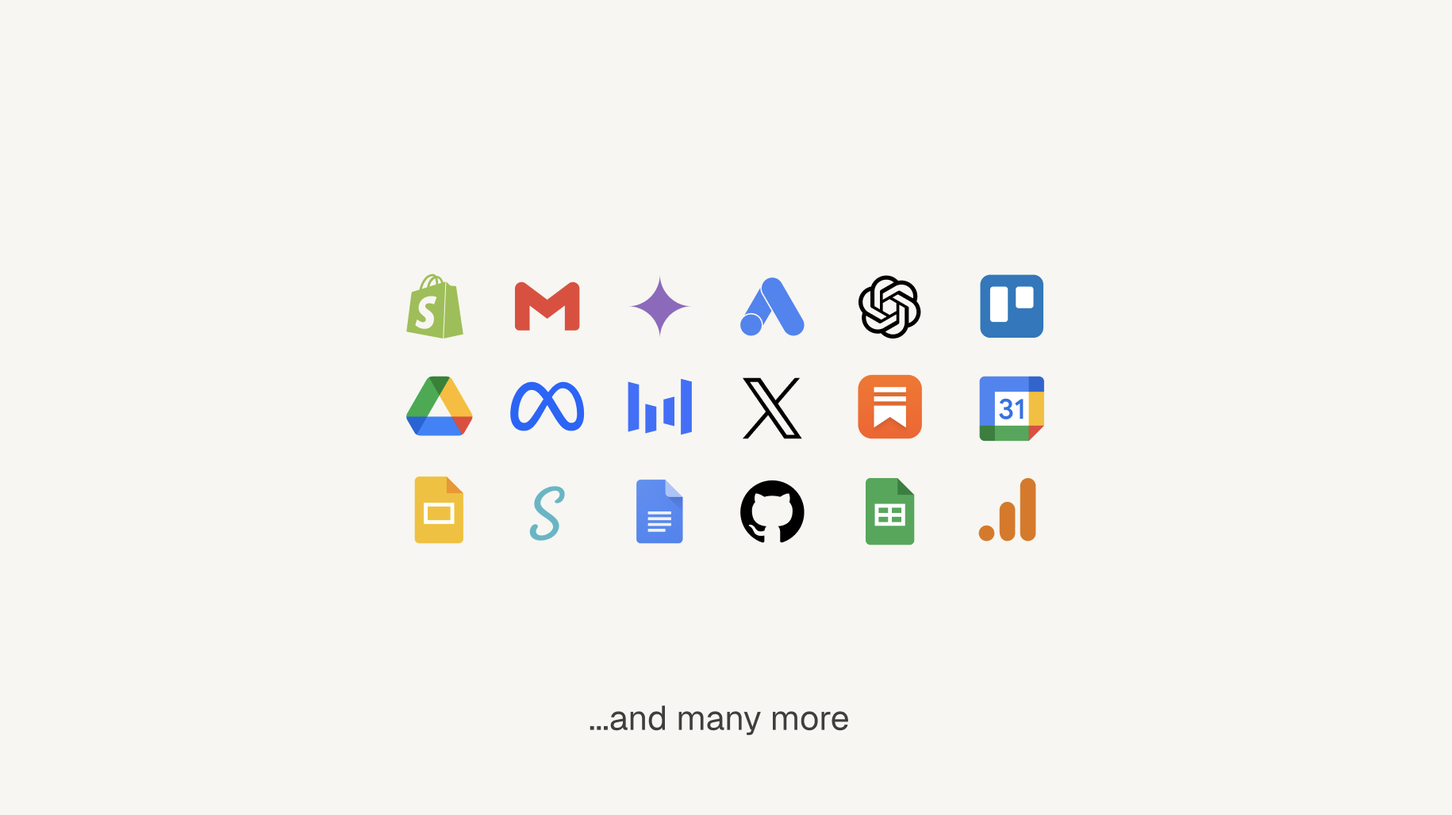
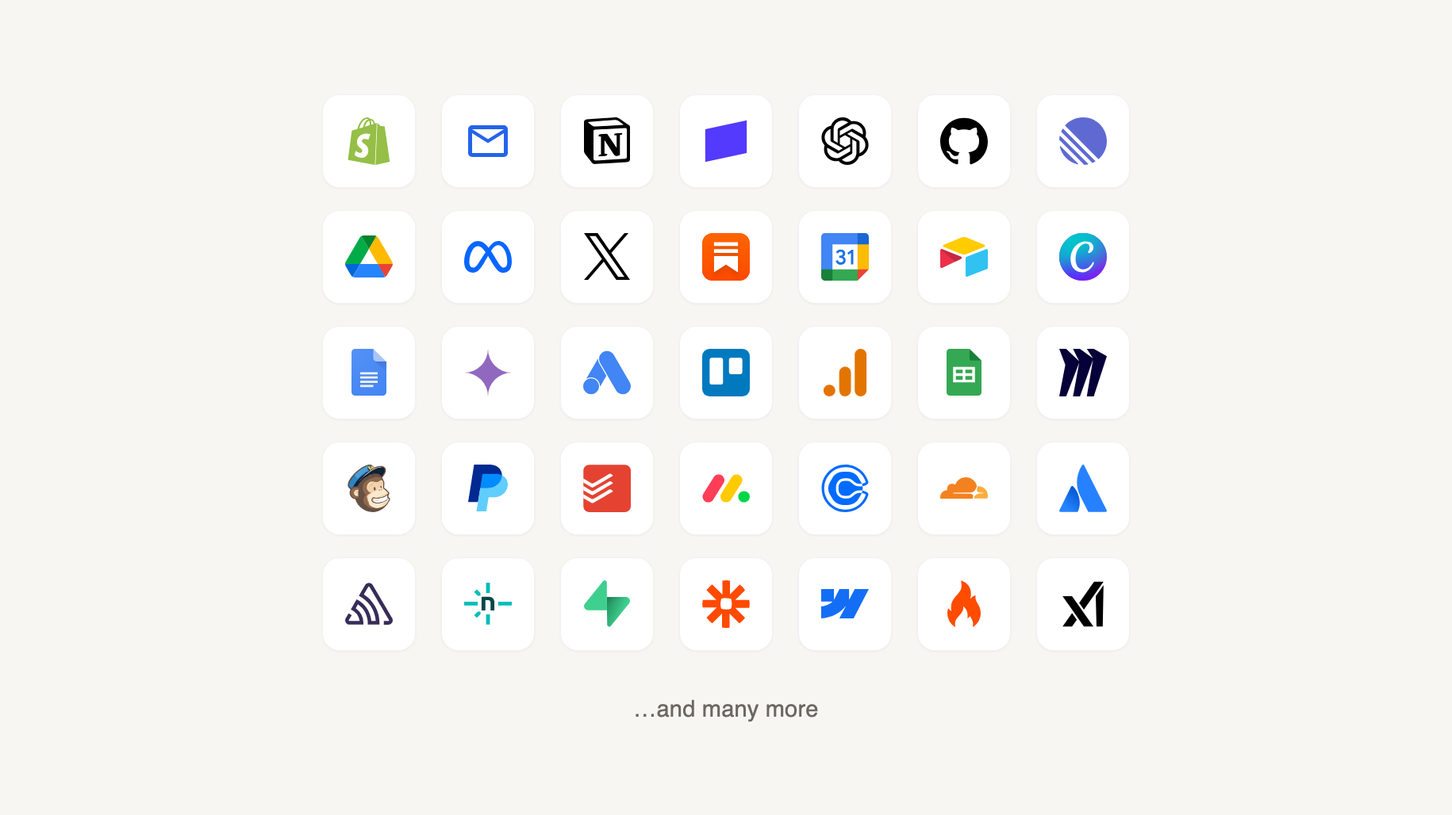
feat(integrations): one island for all feedback, Firecrawl provider, docs refresh
- Unify every integration message (activation, bot restart, errors) into a
  single bottom-centre island bar; drop the corner toast surface. Install and
  remove share the bar (mode-aware); errors show the provider logo instead of a
  warning glyph. Responsive down to mobile.
- Add Firecrawl as a one-click remote-MCP OAuth provider (open DCR verified
  against the production redirect URI) with its official SVG mark.
- Docs: split the catalog into one-click vs bring-your-own-credentials in
  README + docs/INTEGRATIONS.md, add a Remote-MCP one-click OAuth architecture
  section, and regenerate the marquee image as a 7x5 grid of real brand logos.

diff --git a/ide-template/frontend/src/components/workspace/views/IntegrationsDashboard.jsx b/ide-template/frontend/src/components/workspace/views/IntegrationsDashboard.jsx
@@ -180,9 +180,10 @@ export default function IntegrationsDashboard({ sidebarOpen }) {
   const [toasts, setToasts] = useState([]);
   const toastSeq = useRef(0);
   const dismissToast = useCallback((id) => setToasts(t => t.filter(x => x.id !== id)), []);
-  const pushToast = useCallback((text, kind = 'ok', ttl = 4500) => {
+  const pushToast = useCallback((text, kind = 'ok', opts = {}) => {
+    const { ttl = 4500, logo = null, label = null } = opts;
     const id = ++toastSeq.current;
-    setToasts(t => [...t, { id, text, kind }]);
+    setToasts(t => [...t, { id, text, kind, logo, label }]);
     if (ttl) setTimeout(() => setToasts(t => t.filter(x => x.id !== id)), ttl);
     return id;
   }, []);
@@ -202,16 +203,16 @@ export default function IntegrationsDashboard({ sidebarOpen }) {
   // once connected; right = the bot-restart status with a progress bar that
   // fills over the restart window, then flips to "ready". The bar lingers a
   // beat after the restart finishes, then dismisses.
-  const pushActivationToast = useCallback((integration, restarting = true) => {
+  const pushActivationToast = useCallback((integration, restarting = true, mode = 'install') => {
     const id = ++toastSeq.current;
     setToasts(t => [...t, {
-      id, kind: 'activation',
+      id, kind: 'activation', mode,
       logo: integration.logo, label: integration.label || integration.id,
-      left: 'activating', right: restarting ? 'restarting' : 'idle',
+      left: 'pending', right: restarting ? 'restarting' : 'idle',
       duration: RESTART_WINDOW_MS,
     }]);
     // left: circle → check after a short beat
-    setTimeout(() => setToasts(t => t.map(x => x.id === id ? { ...x, left: 'connected' } : x)), 550);
+    setTimeout(() => setToasts(t => t.map(x => x.id === id ? { ...x, left: 'done' } : x)), 550);
     if (restarting) {
       setTimeout(() => {
         setToasts(t => t.map(x => x.id === id ? { ...x, right: 'ready' } : x));
@@ -256,10 +257,10 @@ export default function IntegrationsDashboard({ sidebarOpen }) {
         body: JSON.stringify({ fields: {} }),
       }).then(async (r) => {
         const d = await r.json().catch(() => ({}));
-        if (!r.ok) { pushToast(d.error || `Couldn't activate ${label}.`, 'error'); return; }
+        if (!r.ok) { pushToast(d.error || `Couldn't activate ${label}.`, 'error', { logo: integration.logo, label }); return; }
         pushActivationToast(integration, !!d.restarting);
         reload();
-      }).catch(() => pushToast('Could not reach the server.', 'error'));
+      }).catch(() => pushToast(`Couldn't reach the server — ${label} not activated.`, 'error', { logo: integration.logo, label }));
       return;
     }
     const next = new URLSearchParams(searchParams);
@@ -285,7 +286,7 @@ export default function IntegrationsDashboard({ sidebarOpen }) {
       const integ = integrations.find(i => i.id === e.data.id);
       const label = integ?.label || 'Integration';
       if (e.data.ok) pushActivationToast(integ || { label, logo: null }, true);
-      else pushToast(`${label} didn't connect. Try again.`, 'error');
+      else pushToast(`${label} didn't connect. Try again.`, 'error', { logo: integ?.logo, label });
       reload();
     };
     window.addEventListener('message', onMessage);
@@ -491,10 +492,9 @@ export default function IntegrationsDashboard({ sidebarOpen }) {
           integration={removing}
           onClose={() => setRemoving(null)}
           onSuccess={(data) => {
-            const label = removing?.label || 'Integration';
+            const integ = removing;
             setRemoving(null);
-            pushToast(`${label} removed`, 'ok');
-            if (data?.restarting) pushRestartToast();
+            pushActivationToast(integ, !!data?.restarting, 'remove');
             reload();
           }}
         />
@@ -511,13 +511,14 @@ export default function IntegrationsDashboard({ sidebarOpen }) {
       {/* Dev-only toast simulator — top so it never covers the marketplace.
           Stripped from production builds via import.meta.env.DEV. */}
       {import.meta.env.DEV && (
-        <div className="fixed left-3 top-3 z-[80] flex items-center gap-1.5 rounded-lg border border-border/60 bg-card/95 px-2 py-1.5 shadow-lg backdrop-blur">
+        <div className="fixed left-3 top-3 z-[80] flex max-w-[calc(100vw-1.5rem)] flex-wrap items-center gap-1.5 rounded-lg border border-border/60 bg-card/95 px-2 py-1.5 shadow-lg backdrop-blur">
           <span className="px-1 text-[9.5px] font-bold uppercase tracking-wider text-muted-foreground/55">Toast preview · dev</span>
           {[
-            ['activation bar', () => pushActivationToast({ logo: '/integrations/notion.svg', label: 'Notion' }, true)],
+            ['install bar', () => pushActivationToast({ logo: '/integrations/notion.svg', label: 'Notion' }, true, 'install')],
+            ['remove bar', () => pushActivationToast({ logo: '/integrations/notion.svg', label: 'Notion' }, true, 'remove')],
             ['✓ ok', () => pushToast('Notion connected', 'ok')],
             ['⟳ restart', () => pushRestartToast()],
-            ['✕ error', () => pushToast("Couldn't activate Crypto.com.", 'error')],
+            ['✕ error', () => pushToast("Couldn't activate Notion. Try again.", 'error', { logo: '/integrations/notion.svg', label: 'Notion' })],
           ].map(([label, fn]) => (
             <button
               key={label}
@@ -531,79 +532,63 @@ export default function IntegrationsDashboard({ sidebarOpen }) {
         </div>
       )}
 
-      {/* Activation bar — full-width dock at the bottom. Slides up on connect,
-          left = integration + install check, right = bot restart status, and a
-          full-width progress line at the very bottom edge. */}
-      {toasts.some(t => t.kind === 'activation') && (
+      {/* Island dock — the single home for EVERY integration message. Docked
+          bottom-centre, slides up. Activation rows carry a logo + install/remove
+          check on the left and the bot-restart status + progress line on the
+          right; error/ok/progress rows share the same shell with a status icon
+          and message. Nothing renders in a corner — one consistent surface. */}
+      {toasts.length > 0 && (
         <div className="pointer-events-none fixed inset-x-0 bottom-6 z-[70] flex flex-col items-center gap-2 px-4">
-          {toasts.filter(t => t.kind === 'activation').map((t) => (
+          {toasts.map((t) => (
             <motion.div
               key={t.id}
               initial={{ y: 24, opacity: 0 }}
               animate={{ y: 0, opacity: 1 }}
               exit={{ y: 24, opacity: 0 }}
               transition={{ type: 'spring', stiffness: 300, damping: 30 }}
-              className="pointer-events-auto relative w-[60%] max-w-3xl overflow-hidden rounded-xl border border-border/60 bg-card/95 shadow-[0_8px_30px_rgba(0,0,0,0.10)] backdrop-blur"
+              className="pointer-events-auto relative w-[calc(100%-1rem)] max-w-3xl overflow-hidden rounded-xl border border-border/60 bg-card/95 shadow-[0_8px_30px_rgba(0,0,0,0.10)] backdrop-blur sm:w-[75%] lg:w-[60%]"
             >
-              <div className="flex w-full items-center justify-between gap-4 px-5 py-3">
-                <div className="flex min-w-0 items-center gap-3">
-                  <Logo src={t.logo} alt={t.label} size="size-9" imgSize="size-5" />
-                  <div className="min-w-0">
-                    <div className="truncate text-[14px] font-semibold text-foreground/90">{t.label}</div>
-                    <div className="mt-0.5 flex items-center gap-1 text-[12px]">
-                      {t.left === 'activating'
-                        ? <><Loader2 className="size-3.5 shrink-0 animate-spin text-muted-foreground/60" strokeWidth={2.2} /><span className="text-muted-foreground/70">Installing…</span></>
-                        : <><CheckCircle2 className="size-3.5 shrink-0 text-emerald-600 dark:text-emerald-400" strokeWidth={2.2} /><span className="font-medium text-emerald-600 dark:text-emerald-400">Installed</span></>}
+              {t.kind === 'activation' ? (
+                <div className="flex w-full items-center justify-between gap-2.5 px-3.5 py-2.5 sm:gap-4 sm:px-5 sm:py-3">
+                  <div className="flex min-w-0 items-center gap-2.5 sm:gap-3">
+                    <Logo src={t.logo} alt={t.label} size="size-8 sm:size-9" imgSize="size-5" />
+                    <div className="min-w-0">
+                      <div className="truncate text-[13px] font-semibold text-foreground/90 sm:text-[14px]">{t.label}</div>
+                      <div className="mt-0.5 flex items-center gap-1 text-[11.5px] sm:text-[12px]">
+                        {t.left === 'pending'
+                          ? <><Loader2 className="size-3.5 shrink-0 animate-spin text-muted-foreground/60" strokeWidth={2.2} /><span className="text-muted-foreground/70">{t.mode === 'remove' ? 'Removing…' : 'Installing…'}</span></>
+                          : t.mode === 'remove'
+                            ? <><CheckCircle2 className="size-3.5 shrink-0 text-muted-foreground/70" strokeWidth={2.2} /><span className="font-medium text-muted-foreground/85">Removed</span></>
+                            : <><CheckCircle2 className="size-3.5 shrink-0 text-emerald-600 dark:text-emerald-400" strokeWidth={2.2} /><span className="font-medium text-emerald-600 dark:text-emerald-400">Installed</span></>}
+                      </div>
                     </div>
                   </div>
+                  {t.right !== 'idle' && (
+                    <div className="flex shrink-0 items-center gap-1.5 sm:gap-2">
+                      {t.right === 'restarting'
+                        ? <><Loader2 className="size-4 shrink-0 animate-spin text-muted-foreground/70" strokeWidth={2.2} /><span className="text-[12px] text-muted-foreground/85 sm:text-[13px]"><span className="hidden sm:inline">{botDisplayName} </span>restarting…</span></>
+                        : <><CheckCircle2 className="size-4 shrink-0 text-emerald-600 dark:text-emerald-400" strokeWidth={2.2} /><span className="text-[12px] text-muted-foreground/85 sm:text-[13px]"><span className="hidden sm:inline">{botDisplayName} </span>ready</span></>}
+                    </div>
+                  )}
                 </div>
-                {t.right !== 'idle' && (
-                  <div className="flex shrink-0 items-center gap-2">
-                    {t.right === 'restarting'
-                      ? <><Loader2 className="size-4 shrink-0 animate-spin text-muted-foreground/70" strokeWidth={2.2} /><span className="text-[13px] text-muted-foreground/85">{botDisplayName} restarting…</span></>
-                      : <><CheckCircle2 className="size-4 shrink-0 text-emerald-600 dark:text-emerald-400" strokeWidth={2.2} /><span className="text-[13px] text-muted-foreground/85">{botDisplayName} is ready</span></>}
-                  </div>
-                )}
-              </div>
-              {t.right === 'restarting' && (
+              ) : (
+                <div className="flex w-full items-center gap-2.5 px-3.5 py-2.5 sm:gap-3 sm:px-5">
+                  {t.logo
+                    ? <Logo src={t.logo} alt={t.label} size="size-8 sm:size-9" imgSize="size-5" />
+                    : t.kind === 'error'
+                      ? <AlertTriangle className="size-4 shrink-0 text-destructive" strokeWidth={2.2} />
+                      : (t.kind === 'pending' || t.kind === 'progress')
+                        ? <Loader2 className="size-4 shrink-0 animate-spin text-muted-foreground/70" strokeWidth={2.2} />
+                        : <CheckCircle2 className="size-4 shrink-0 text-emerald-600 dark:text-emerald-400" strokeWidth={2.2} />}
+                  <span className={cn('min-w-0 flex-1 text-[13px] font-medium', t.kind === 'error' ? 'text-destructive' : 'text-foreground/85')}>{t.text}</span>
+                  <button type="button" onClick={() => dismissToast(t.id)} className="-mr-1 shrink-0 rounded p-0.5 text-muted-foreground/60 transition-colors hover:text-foreground" aria-label="Dismiss">
+                    <X className="size-3.5" strokeWidth={2} />
+                  </button>
+                </div>
+              )}
+              {(t.kind === 'activation' ? t.right === 'restarting' : t.kind === 'progress') && (
                 <div className="absolute inset-x-0 bottom-0 h-[3px] bg-border/30">
                   <motion.div className="h-full bg-foreground/40" initial={{ width: '0%' }} animate={{ width: '100%' }} transition={{ duration: (t.duration || RESTART_WINDOW_MS) / 1000, ease: 'linear' }} />
-                </div>
-              )}
-            </motion.div>
-          ))}
-        </div>
-      )}
-
-      {/* Corner toasts — errors, remove, standalone restart. */}
-      {toasts.some(t => t.kind !== 'activation') && (
-        <div className="pointer-events-none fixed bottom-5 right-5 z-[71] flex flex-col items-end gap-2">
-          {toasts.filter(t => t.kind !== 'activation').map((t) => (
-            <motion.div
-              key={t.id}
-              initial={{ opacity: 0, y: 12, scale: 0.97 }}
-              animate={{ opacity: 1, y: 0, scale: 1 }}
-              exit={{ opacity: 0 }}
-              transition={{ type: 'spring', stiffness: 340, damping: 28 }}
-              className={cn(
-                'pointer-events-auto relative flex items-center gap-2.5 overflow-hidden rounded-lg border px-3.5 py-2.5 text-[13px] font-medium shadow-lg backdrop-blur',
-                t.kind === 'error'
-                  ? 'border-destructive/30 bg-destructive/10 text-destructive'
-                  : (t.kind === 'pending' || t.kind === 'progress')
-                    ? 'border-border/60 bg-card/95 text-foreground/80'
-                    : 'border-emerald-500/30 bg-emerald-500/10 text-emerald-700 dark:text-emerald-300',
-              )}
-            >
-              {t.kind === 'ok'        && <CheckCircle2 className="size-4 shrink-0" strokeWidth={2.2} />}
-              {(t.kind === 'pending' || t.kind === 'progress') && <Loader2 className="size-4 shrink-0 animate-spin" strokeWidth={2.2} />}
-              {t.kind === 'error'     && <AlertTriangle className="size-4 shrink-0" strokeWidth={2.2} />}
-              <span>{t.text}</span>
-              <button type="button" onClick={() => dismissToast(t.id)} className="ml-1 -mr-1 rounded p-0.5 opacity-60 transition-opacity hover:opacity-100" aria-label="Dismiss">
-                <X className="size-3.5" strokeWidth={2} />
-              </button>
-              {t.kind === 'progress' && (
-                <div className="absolute inset-x-0 bottom-0 h-[2.5px] bg-border/40">
-                  <motion.div className="h-full bg-foreground/45" initial={{ width: '0%' }} animate={{ width: '100%' }} transition={{ duration: (t.duration || RESTART_WINDOW_MS) / 1000, ease: 'linear' }} />
                 </div>
               )}
             </motion.div>

diff --git a/docs/INTEGRATIONS.md b/docs/INTEGRATIONS.md
@@ -11,7 +11,51 @@ setup, the user flow, and the security model.
 
 Activated from the **Integrations** dashboard — no redeploy.
 `ide-template/workspace-api/integrations.catalog.json` is the source of truth;
-this table mirrors it.
+these tables mirror it. Two kinds:
+
+### One-click — sign in, no keys to paste
+
+Provider-hosted **remote MCP servers**. Activation is a single popup: the user
+signs in to the provider and approves; the workspace-api OAuth broker registers
+itself (Dynamic Client Registration), completes PKCE on the client's own domain,
+and feeds the token to the MCP via a `headersHelper` — **no operator setup, no
+API keys**. See [Remote-MCP one-click OAuth](#remote-mcp-one-click-oauth) for how
+it works. `open` = no auth at all (keyless hosted server, instant-activate).
+
+| Integration | What it does | Auth |
+|---|---|---|
+| **Airtable** | Bases, tables, records | OAuth |
+| **Amplitude** | Product analytics and charts | OAuth |
+| **Atlassian** | Jira and Confluence | OAuth |
+| **Cal.com** | Bookings and availability | OAuth |
+| **Calendly** | Scheduling and invitees | OAuth |
+| **Canva** | Designs and brand assets | OAuth |
+| **Cloudflare** | Workers, KV, R2, DNS | OAuth |
+| **Crypto.com** | Crypto prices and charts | open |
+| **Firecrawl** | Scrape, crawl, and search the web | OAuth |
+| **Klaviyo** | Campaigns, flows, lists | OAuth |
+| **Linear** | Issues, projects, cycles | OAuth |
+| **Mailchimp** | Audiences and campaigns | OAuth |
+| **Miro** | Boards and diagrams | OAuth |
+| **monday.com** | Boards, items, updates | OAuth |
+| **Neon** | Postgres branches and SQL | OAuth |
+| **Netlify** | Sites, deploys, forms | OAuth |
+| **Notion** | Pages, databases, search | OAuth |
+| **Parallel Search** | Real-time web search | open |
+| **PayPal** | Payments and invoices | OAuth |
+| **Sentry** | Errors and releases | OAuth |
+| **Stripe** | Payments and subscriptions | OAuth |
+| **Supabase** | Postgres, auth, functions | OAuth |
+| **Todoist** | Tasks and projects | OAuth |
+| **Webflow** | Sites, CMS, publishing | OAuth |
+| **Wix** | Sites, stores, orders | OAuth |
+| **Zapier** | 7,000+ apps via Zapier | OAuth |
+
+### Bring your own credentials
+
+Self-hosted MCPs or provider APIs that need a key, token, or file you paste once
+(encrypted at rest). Some — Google Workspace, Meta, Google Ads — need a
+provider-side app the operator provisions; those steps are documented below.
 
 | Integration | What it does |
 |---|---|
@@ -77,6 +121,61 @@ project-data volume                            /home/coder/project/.integrations
 1. **Master key** — owned by host root, mounted read-only into the container. Lives in `/srv/<ide>/secrets/`, deliberately separate from `.env` and from the project tree so the blast radius of any single backup leak is bounded.
 2. **Encrypted credentials store** — under `PROJECT_DIR/.integrations/credentials.json`. Each field encrypted with a fresh IV; tampered ciphertext fails to decrypt rather than leaking garbage. `HARD_HIDDEN` so the file API never returns it even with `?include_hidden=true`.
 3. **Config files** — credentials that an MCP reads as a path (email accounts.json, GA4 service-account JSON) get materialised under `/home/coder/.integrations-data/` (writable mount). Atomically written, mode 0600, deleted on remove.
+
+## Remote-MCP one-click OAuth
+
+The one-click providers in the first table above don't ship a per-provider MCP —
+they're **official provider-hosted remote MCP servers**, wired through a small
+OAuth broker inside workspace-api. This is what makes "add an integration"
+a sign-in popup instead of a key-paste, and — crucially — adds **zero setup for
+whoever deploys the product**: no operator has to register an OAuth app anywhere.
+
+**How a connect flows:**
+
+1. **Catalog entry** carries `mcp: { type: "http", url, allowedHosts }` and a
+   single field of type `remote-mcp-oauth`. That's the whole declaration — no
+   client IDs, no secrets.
+2. **Start** — admin clicks Activate → popup to
+   `GET /api/integrations/:id/oauth/start`. The broker
+   (`lib/integrations/oauth.js`, on the MCP SDK's `auth`) runs RFC 9728/8414
+   **discovery** from the MCP URL, then **Dynamic Client Registration** (RFC 7591)
+   against the provider's authorization server — registering *this client's own
+   domain* as the redirect URI on the fly. PKCE (S256) throughout.
+3. **Callback** — the provider redirects to `GET /api/integrations/oauth/callback`,
+   a **public** route (the provider redirect carries no session cookie) that is
+   `state`-validated. The broker exchanges the code, encrypts the tokens into the
+   same credentials store, and `postMessage`s the opener so the dashboard flips
+   the tile to Active without a reload.
+4. **Runtime** — `syncMcpServers` writes an `.mcp.json`/`~/.claude.json` entry
+   with `type: "http"` and a `headersHelper` (`bot/mcp-auth-helper.sh`). Claude
+   Code calls the helper to fetch the current bearer from the loopback route
+   `GET /api/internal/mcp-token/:id`, and **re-runs it once on a 401** (Claude
+   Code ≥ 2.1.193), so a silently-expired token refreshes mid-session. The broker
+   refreshes with the stored refresh token on demand.
+
+**Egress split.** workspace-api has no direct outbound; the broker's OAuth
+fetches (discovery, registration, token) go through the egress **OPEN** listener
+`egress-proxy:3130` (any public host, RFC1918 blocked) via an undici `ProxyAgent`
+set as the SDK's `fetchFn`. The bot's actual MCP connection is gated by the
+**strict** allowlist — so every one-click entry must list its MCP host in
+`mcp.allowedHosts` (that's the only host the bot dials; the auth-server host can
+differ and still works, because broker fetches use the open listener).
+
+**Gotchas** that are easy to trip on:
+
+- The broker **must use the global `fetch`** with `{ dispatcher }`, not undici's
+  `fetch` — the SDK does `input instanceof Response` in `parseErrorResponse`, and
+  an undici `Response` fails that check, surfacing as `"[object Response]"` on any
+  non-2xx.
+- A `registration_endpoint` existing in discovery **≠ open DCR**. Verify each
+  provider by POSTing a registration against the *production* redirect URI before
+  shipping it — some gate DCR to whitelisted partners and will 4xx.
+- `pm2 restart` does **not** reload the catalog JSON; a catalog change needs a
+  `docker restart` of the container.
+
+**When a hosted MCP doesn't exist** (Shopify Admin, Google Ads) or the provider
+forces pre-provisioned creds (Google Workspace's own GCP project), the
+integration stays in the second table — a bring-your-own-credentials MCP.
 
 ## Catalog
 

diff --git a/README.md b/README.md
@@ -217,28 +217,18 @@ Inspired by [Karpathy's LLM-wiki](https://gist.github.com/karpathy/442a6bf555914
 ## Integrations
 
 <p align="center">
-  <img src="assets/integrations.png" alt="Shopify · Gmail · Gemini · Google Ads · Meta, and more" width="820" />
+  <img src="assets/integrations.png" alt="Shopify · Notion · Stripe · GitHub · Linear · Google Workspace · Airtable · Miro · Cloudflare · Sentry, and many more" width="820" />
 </p>
 
 <br/>
 
-| Integration | What it gives your coworker |
-|---|---|
-| Shopify | Orders, products, inventory; draft orders, fulfillments |
-| Meta Ads | Instagram + Facebook ads, campaigns, audiences, Page/IG insights |
-| Google Ads | Campaigns, ad groups, keywords, Keyword Planner, reports |
-| Google Analytics 4 | Traffic, events, conversions, queried from chat |
-| Google Workspace | Docs, Sheets, Calendar, Drive, Slides, Tasks, one OAuth, six services |
-| Email (IMAP) | Multi-account inbox (Gmail / Zoho / custom); read by default, sending opt-in |
-| Trello | Cards, comments, labels, move between columns |
-| GitHub | Repos, issues, pull requests |
-| Substack | Posts, authors, Notes; optional write access |
-| X | Tweets, profiles, replies, mentions (via twitterapi.io) |
-| Grok (xAI) | Live X + web search, real-time takes, fact-checks |
-| OpenAI (GPT) · Gemini | Second opinions from GPT-5 / Gemini 2.5 |
-| Image generation | Seedream 4.5 + Google Imagen 3 / Gemini, generate & edit |
-| SignWell | Send documents for e-signature |
-| Docs Comments | Inline comments anchored to text in Google Docs |
+**One-click — sign in, no keys to paste.** Two dozen provider-hosted MCP servers connect with a single popup: sign in, approve, done. No API keys, and nothing for whoever deploys the product to register — the workspace-api OAuth broker registers itself on the fly (Dynamic Client Registration) and completes the flow on the client's own domain.
+
+> Notion · Stripe · Linear · Airtable · Miro · monday.com · Todoist · Cal.com · Calendly · PayPal · Klaviyo · Mailchimp · Cloudflare · Atlassian (Jira/Confluence) · Sentry · Netlify · Neon · Supabase · Webflow · Canva · Zapier · Amplitude · Wix · Firecrawl · Parallel Search · Crypto.com
+
+**Bring your own credentials.** The rest paste a key, token, or file once — encrypted at rest:
+
+> Shopify · Meta Ads · Google Ads · Google Analytics 4 · Google Workspace · Email (IMAP) · Trello · GitHub · Substack · X · Grok (xAI) · OpenAI (GPT) · Gemini · Gemini Image · Seedream · SignWell · Docs Comments
 
 You activate each one from the Integrations dashboard, no redeploy, no `.env` editing. Credentials are encrypted at rest; removing an integration wipes the secret. Setup details in [docs/INTEGRATIONS.md](docs/INTEGRATIONS.md).
 

diff --git a/ide-template/frontend/src/components/workspace/README.md b/ide-template/frontend/src/components/workspace/README.md
@@ -200,9 +200,20 @@ Pills with a URL are `<a target="_blank">` with a `Globe` icon on the left and a
 [`views/IntegrationsDashboard.jsx`](views/IntegrationsDashboard.jsx) is the
 front-end side of the self-service integrations system. The dashboard reads
 `/api/integrations` (catalog + active state), renders one tile per
-integration in a responsive grid (`auto-fill, minmax(260px, 1fr)`) split
-into **Active** and **Available** sections, and pops a wide modal on
-**Activate**.
+integration split into **Active** and a category-sectioned **Marketplace**,
+and activates one of three ways depending on the catalog entry:
+
+- **One-click OAuth** (`mcp.type === "http"` + a `remote-mcp-oauth` field) —
+  no modal at all. Clicking Activate opens the provider's consent popup;
+  workspace-api's broker completes the flow on the client's own domain and
+  `postMessage`s back. This is the Notion/Stripe/Linear/… path. See
+  [Remote-MCP one-click OAuth](../../../../../docs/INTEGRATIONS.md#remote-mcp-one-click-oauth).
+- **Open server** (hosted MCP, no auth, no fields) — activates directly, no
+  modal, no popup.
+- **Bring-your-own-credentials** — pops the wide activate modal below.
+
+All feedback (connected, bot restart, errors) surfaces through a single
+bottom-centre **island** bar, not scattered toasts.
 
 The activate modal is two-column on desktop:
 
